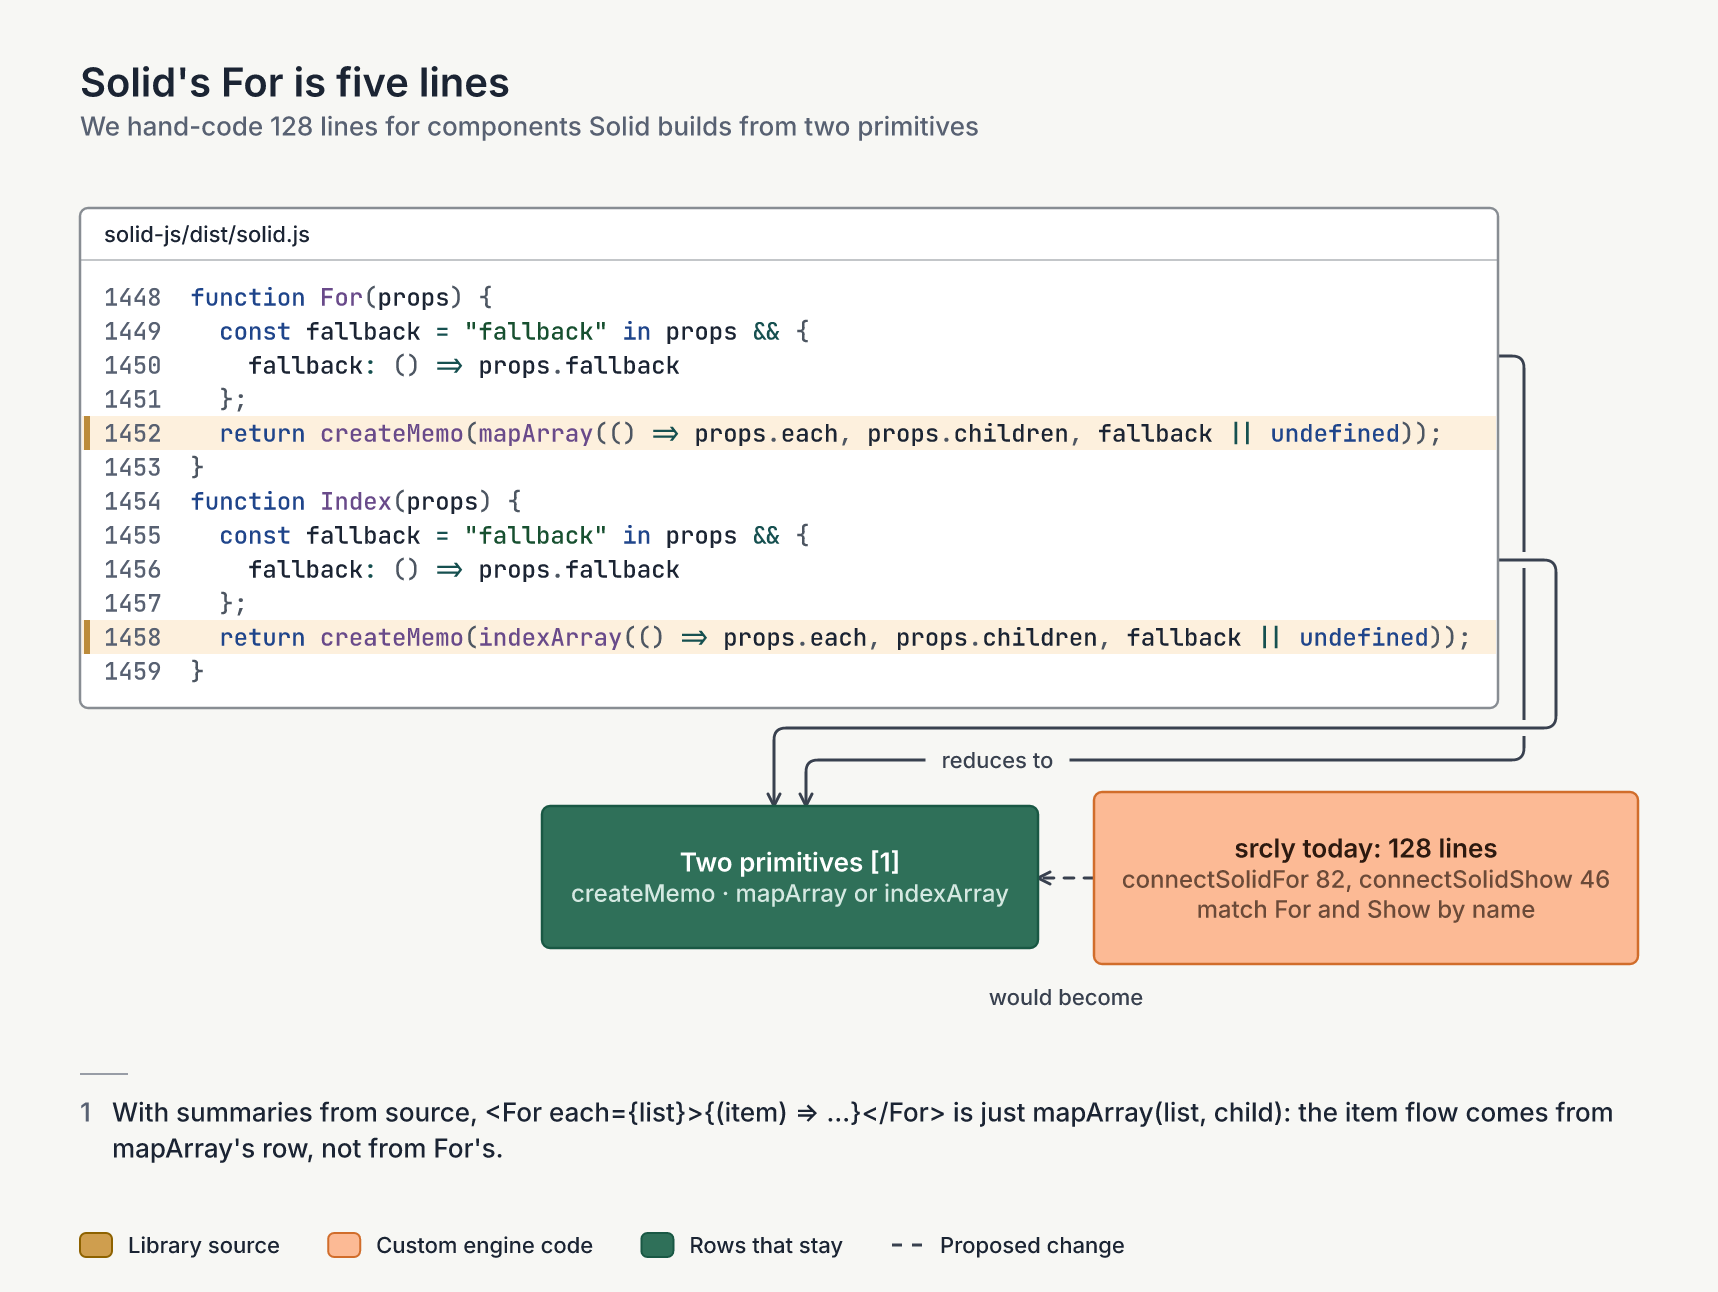
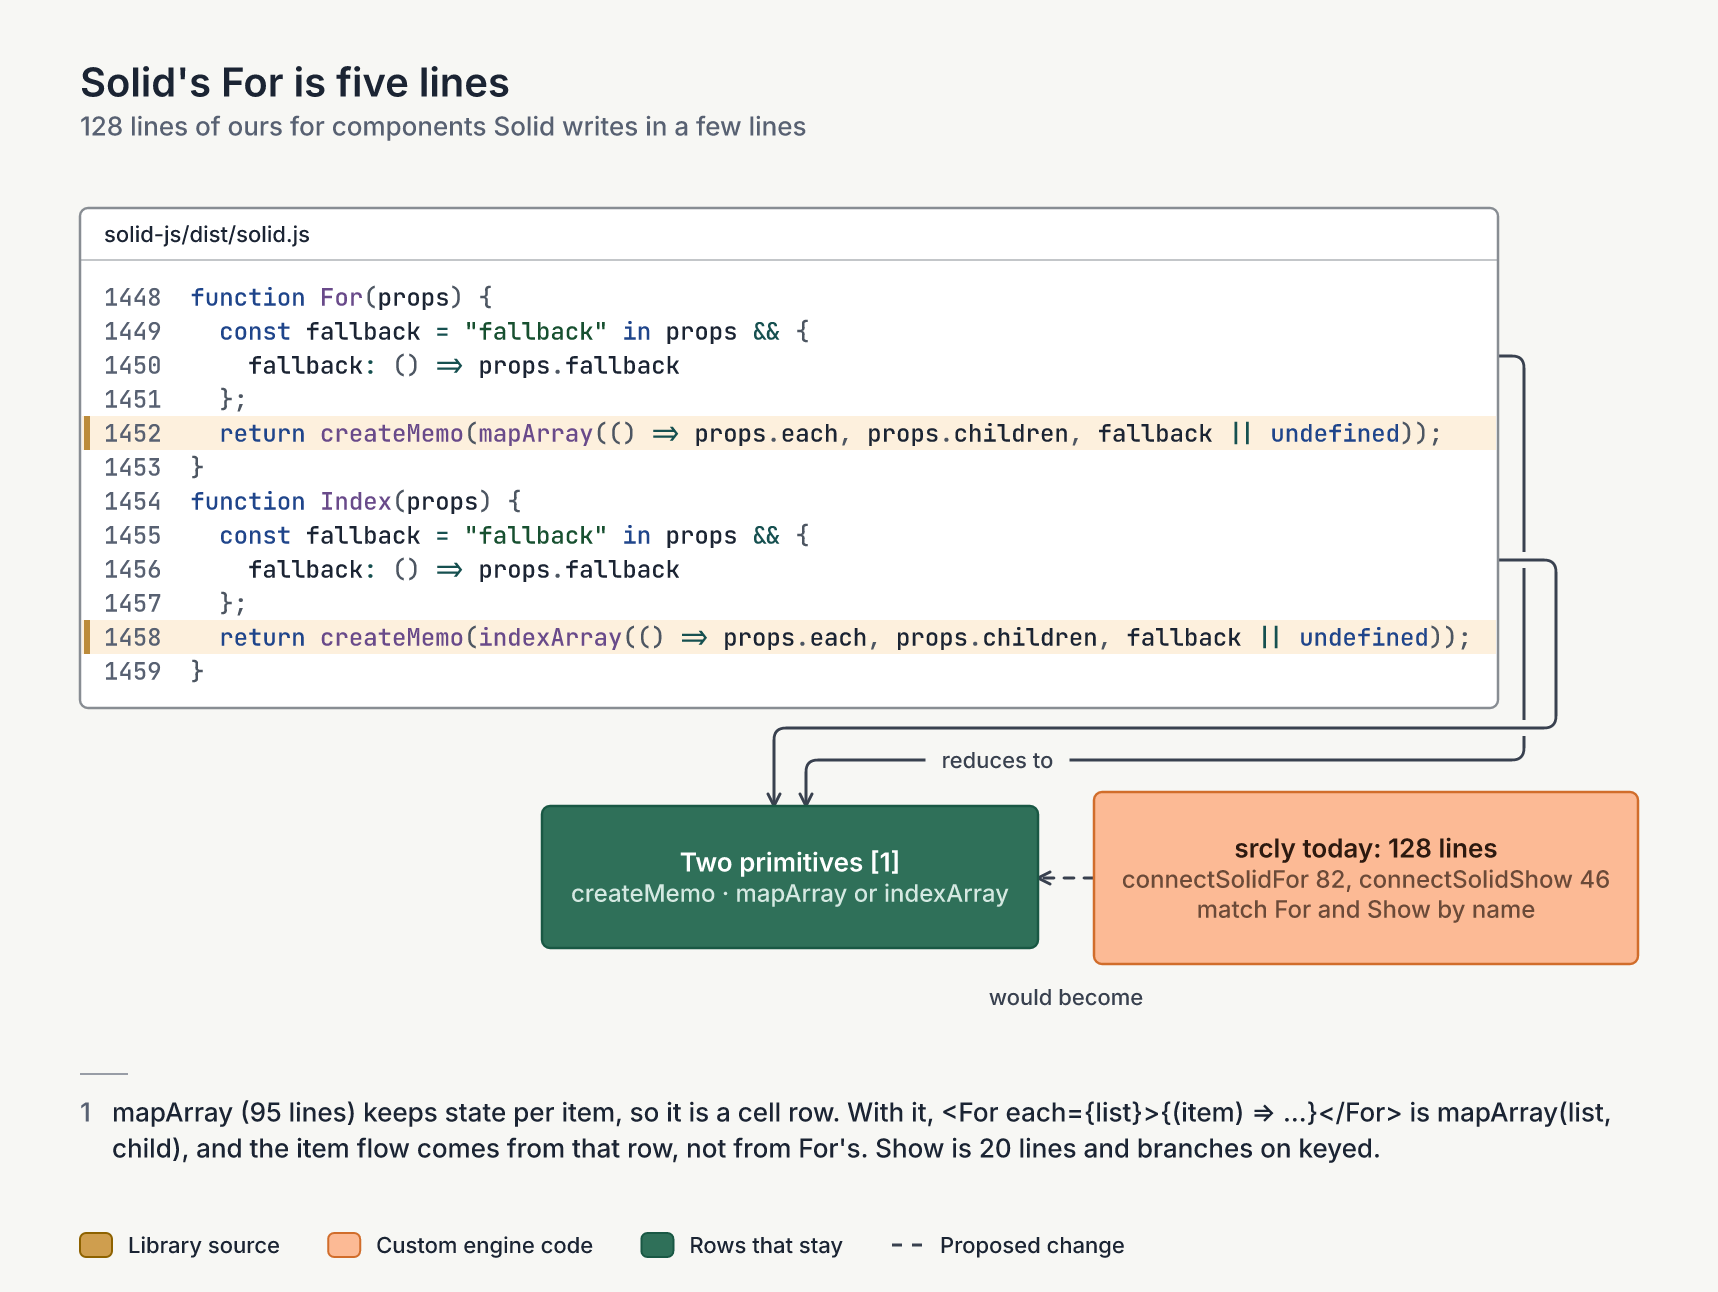
docs(research): record the independent review and revise the plan
Rows stay the only interface; dependency source becomes an offline row
generator, decided by an inline test. The divider for a hand row is
per-call state. Fix the intake numbers and three diagrams.

Changed region(s): [[0.0617, 0.8359, 0.9563, 0.8978], [0.0308, 0.0929, 0.5553, 0.1238]]

diff --git a/docs/research/dataflow-library-models-2026-11/README.md b/docs/research/dataflow-library-models-2026-11/README.md
@@ -2,11 +2,36 @@
 
 Byron's question: "I am worried that extending this to cover more patterns requires adding huge amounts of custom code for every library that is supported. Can we do better?"
 
-Short answer: yes. Most library knowledge is already data (286 rows in `engine/models/*.json`). The cost does not come from the rows. It comes from the row vocabulary: each new library shape adds a new row field, a new TypeScript reader, and a new emitter. A fixed vocabulary of access paths, plus flow edges that the libraries' own `.d.ts` generics propose, would make most new library support rows-only. Two engine concepts (a state cell and a component slot) would absorb the imperative code that remains.
+Short answer: yes. Most library knowledge is already data (286 rows in `engine/models/*.json`). The cost does not come from the rows. It comes from the row vocabulary: each new library shape adds a new row field, a new TypeScript reader, and a new emitter. A fixed vocabulary of access paths, with cell and keyed-store shapes for state that exists once per call, makes new library support rows-only. Reading library source can later *generate* rows offline; it must not run inside the scan. The "Revised direction" section below records why.
 
 Read on `origin/main` at `40cd9a68` (after #417 and #418), 2026-11-22. No engine file changed. The diagrams in `diagrams/` are Draftably 0.16.0 files; each PNG carries its `.draft` source (`npx draftably@0.16.0 extract`). The spike scripts and their raw output are outside the repo, in the session notes folder `lib-model-audit/`.
 
 ![Where library knowledge lives today](diagrams/1-where-library-code-lives.png)
+
+## Revised direction after an independent review
+
+A separate review (Fable 5.2, read-only; full text in the notes folder as `lib-model-audit/review-fable.md`) re-measured this audit. The inventory holds. It rejected one part of the plan and corrected one framing. This section supersedes the recommendation in section 5 and the conclusions of sections 5b and 5c where they differ.
+
+**What the review measured:**
+
+- **Dependency JS inside the scan Program erases user types.** TypeScript reaches package JS only with `noDtsResolution`, which applies to the whole Program. On family-finances, the share of user-code identifiers typed `any` rose from 10.4% to 46.1%. The engine resolves calls through the checker, so most rules would stop, including the `QueryClient.*` member rows from #423 (`libraryMemberModel` requires a declaration file).
+- **The heap doubles.** Family-finances went from 509 MB to 1,120 MB at `maxNodeModuleJsDepth: 4`, which pulled in 2,345 files from 118 packages (TypeScript, ESLint, Next, react-dom). TypeScript has no per-package depth limit. A repo already at 2 to 3 GB cannot take this.
+- **Builds disagree.** TypeScript bound zustand's shim to React's minified production build by branch order. Solid's server build makes `createEffect` a no-op and signals plain closures. A summary from the wrong build is a confident false `ok`.
+- **Library JS is untyped,** and the engine stops by rule at an untyped receiver of unknown origin (#420). Reading zustand needs a value-based call resolver for JavaScript, not "two general abilities and one row".
+- **Nothing defined a complete summary.** A summary may be `ok` only if every call on its path has one resolved callee; there is no computed access, `Proxy`, getter, `apply` or `eval` on the path; every write to each closure variable and field is found; every build agrees or one is named as the truth; and state is kept per call.
+
+**The corrected framing.** A hand row is needed where **state exists once per call** (every `createSignal`, every zustand `create`), or where the build picks the function at run time (React's dispatcher). "The runtime decides the path" was only half of it: Solid's `createSignal` is 15 lines of plain code, but every signal shares `readSignal` and `writeSignal`, so an analysis without per-call instances joins every write to every read. A correct source summary of zustand must say exactly what a cell row says. Source reading can generate cell rows; it cannot replace them.
+
+**The revised plan:**
+
+1. **Rows are the only interface.** Do migration stages 1 to 4b: access paths, then the cell, slot and keyed-store shapes. The cell row must name extra handles (`getState`, `setState`, `subscribe`, middleware pass-through), so `engine/src/analysis/zustand-store.ts` (177 lines, added by #419) can go too.
+2. **No dependency JS in the scan Program.** The `SRCLY_DEP_SOURCE` slice is dropped.
+3. **Reading source becomes an offline row generator** (option Q in the review): `engine/scripts/summarise-package.ts <package dir>` builds a small Program on one package and prints rows with provenance `generated`, a version range and a hash of the entry file. Generated rows are checked in, reviewed as a diff, and pass the same survey gate as hand rows. Build it only if the inline test below shows the gap is small.
+4. **Types stay `assumed` hints** (stage 5). They need today's `.d.ts` Program, which is one more reason to keep it as it is.
+
+**First step, running now:** the inline test. Copy zustand 4.5.7's 88 lines in as user code, trace two stores, and count the engine's stops. Few stops, all fixed by general rules that also help typed user code, means the offline generator is worth building. More than about five new rules, any JavaScript-only rule, or any cross-store join means rows win outright. The result goes to `lib-model-audit/inline-test.md`.
+
+**Numbers that moved since the audit's base** (`40cd9a68`): 297 rows on `origin/main` (#423 added 11 React Query rows); zustand's custom code is about 226 lines (#419); `library-models.ts` is 201 lines.
 
 ## Worked examples
 
@@ -41,7 +66,7 @@ These five pictures show the scope on real code. Read them before the numbers.
 | `engine/models/python.json` | 128 | stdlib, logging, requests, httpx, sqlalchemy, sqlmodel, django, flask, starlette, pandas, rest_framework | 60 origins, 61 terminals, 7 pass-throughs |
 | `engine/models/ecmascript.json` | 48 | TypeScript `lib.*.d.ts` | 30 `calls-back` (`map`, `then`, timers), 18 `consumes` |
 | `engine/models/solid.json` | 38 | solid-js, solid-js/store, @solidjs/router, @tanstack/solid-query, @solid-primitives | 12 `calls-back`, 10 `wraps`, 5 query options, 5 pass-throughs, 2 state pairs, 2 terminals |
-| `engine/models/node.json` | 35 | node:fs, http, https, globals | 18 origins, 17 terminals |
+| `engine/models/node.json` | 35 | node:fs, http, https, globals | 19 origins, 16 terminals |
 | `engine/models/web.json` | 17 | DOM lib, globals | 14 `consumes`, 2 origins, 1 terminal |
 | `engine/models/react.json` | 14 | react, @tanstack/react-query, zustand | 4 query options, 3 `wraps`, 3 `calls-back`, 2 state pairs, 1 store, 1 pass-through |
 | `engine/models/utilities.json` | 6 | lodash, lodash-es, lodash.debounce, lodash.throttle | 6 `wraps` |
@@ -211,14 +236,16 @@ Scores: coverage is patterns that work with no new row; risk is the chance of a 
 
 ### Recommendation
 
-Do A, B, F and H, and use E and J to write rows. Skip C and I: C analyses too much, and I needs running code. G (summaries down to a primitive floor) is the strongest later step; section 5c shows which modelled libraries it would cover.
+*Superseded in part by "Revised direction" at the top: G moves out of the scan and becomes an offline row generator.*
+
+Do A, B, F and H, and use E and J to write rows. Skip C and I: C analyses too much, and I needs running code.
 
 - **A** stops vocabulary growth. Every new library step that fits shapes 1 to 7 becomes data.
 - **B** makes unmodelled libraries trace along the right path, so a trace reaches its real end with an honest `assumed`. A 1-line confirmation row then promotes a proposal to `ok`. Types propose; rows confirm.
 - **F** turns the cell and slot emitters into two general ones.
 - **H** turns context, and the cache patterns of query libraries, into one keyed-store rule.
 
-After these four, a new library costs rows only, unless it adds a genuinely new shape. The Python FastAPI binding stays code, because it is a rule about program structure, not a library member. G is worth one spike on zustand later, to see whether its summary matches the cell row.
+After these four, a new library costs rows only, unless it adds a genuinely new shape. The Python FastAPI binding stays code, because it is a rule about program structure, not a library member. The inline test decides whether an offline row generator is worth building.
 
 ## 5b. Other engines, and analysing dependency source
 
@@ -253,33 +280,35 @@ React and Solid themselves are different. `useState` in `react.development.js` c
 
 This changes option C's score. Analysing *all* of `node_modules` is still too costly, but **summarising userland libraries down to a short list of framework primitives** is source-only, needs no rows for zustand-like libraries, and matches what Pysa and CodeQL do. A summary computed from source is a proof, so it can be `ok` where the analysis is complete, and `assumed` where it meets dynamic code.
 
-Suggested spike: summarise `zustand` from `node_modules` source down to a `useSyncExternalStore` row, and compare the edges with today's `connectStores` on the `zustand-store.tsx` fixture. It needs the closure-variable rule first.
+**Measured limits (from the review).** Doing this inside the scan Program fails: `noDtsResolution` erases user types (10.4% to 46.1% of identifiers typed `any` on family-finances), the heap doubles, and TypeScript picks a build by accident. The idea survives only as an offline generator of rows, decided by the inline test (see "Revised direction").
 
 ## 5c. Library intake applied to what we model today
 
-The intake question: can a source analysis follow the value through this library's code, or does the path run through a runtime? A *primitive* is the second kind. Its code exists, but which function runs is chosen at run time (React's dispatcher), the write waits in a queue for a scheduler, or the value leaves the program (I/O). Only primitives need hand rows.
+The intake question: does this library hold state that exists once per call, or does a runtime pick the function? Then it needs a hand row (a cell, a keyed store, or a boundary). Otherwise it is plain code over such rows, and a row generator could describe it. *Corrected after review:* an earlier draft said "the path runs through a runtime"; the real divider is per-call state.
 
-![What "primitive" means here](diagrams/13-what-primitive-means.png) I read the installed source of each modelled library (`solid-js` 1.x in bible-daily, `@tanstack/react-query` 4.44 and `zustand` in family-finances, `lodash` in recipes-modern).
+![What "primitive" means here](diagrams/13-what-primitive-means.png)
+
+I read the installed source of each modelled library (`solid-js` 1.x in bible-daily, `@tanstack/react-query` 4.44 and `zustand` in family-finances, `lodash` in recipes-modern).
 
 ![What each modelled library is made of](diagrams/10-library-layers.png)
 
 | Library | What its source is | Rows today | Custom code today | Verdict |
 | --- | --- | ---: | ---: | --- |
 | React hooks, `memo`, `forwardRef` | Calls into `dispatcher`, which the renderer sets at run time | 9 | state pairs 33 | Primitive: keep rows |
-| Solid `createSignal`, `createMemo`, effects, `createStore`, `splitProps`, `mergeProps` | The reactive core: a scheduler and `Proxy` objects | 14 | | Primitive: keep rows |
+| Solid `createSignal`, `createMemo`, effects, `createStore`, `splitProps`, `mergeProps` | `createSignal` is 15 lines: one object per call, read and written through shared `readSignal` and `writeSignal`. Stores use `Proxy`. `splitProps`, `mergeProps`, `untrack` and `batch` are plain code | 14 | | Per-call state: cell rows |
 | Context (React and Solid) | Solid: `Owner.context[context.id] ?? context.defaultValue`. React: the dispatcher | 0 | 107 | Primitive: one keyed-store row |
 | I/O (fetch, fs, DB, print, Python boundaries) | Ends in native code or the network | 161 | | Primitive: keep rows |
-| Solid `For`, `Index`, `Show`, `children` | 5 to 15 lines each on `createMemo` and `mapArray` | 1 | 128 | Built on primitives |
-| Solid `createSelector`, `on`, `mapArray`, `createDeferred`, `onMount` | Plain JS on the reactive core | 5 | | Built on primitives |
-| Router `createAsync`, `query`, `cache`, `action` | `createAsync` is `createResource(() => fn())`; `query` keeps a module `Map` keyed by name and arguments | 8 | resource 140 (shared with Solid) | Built on primitives; the `Map` is a keyed store with a computed key |
-| zustand | 80 lines: a closure `let state` and `useSyncExternalStoreWithSelector` | 1 | 70 | Built on primitives |
+| Solid `For`, `Index`, `Show`, `children` | `For` and `Index` are 5 lines on `createMemo` and `mapArray` (95 lines, with per-item state). `Show` is 20 lines and branches on `keyed` | 1 | 128 | Plain code over cells |
+| Solid `createSelector`, `on`, `mapArray`, `createDeferred`, `onMount` | `on` and `onMount` are plain code; `mapArray` and `createSelector` keep per-call state | 5 | | Mixed |
+| Router `createAsync`, `query`, `cache`, `action` | `createAsync` is `createResource(() => fn())`; `query` keeps a module `Map` keyed by name and arguments | 8 | resource 140 (models Solid's `createResource`, a cell) | Plain code over cells; the `Map` is a keyed store with a computed key |
+| zustand | 88 lines (4.5.7): one closure `let state` per `create` call, and `useSyncExternalStoreWithSelector` | 1 | 70 at the audit's base; about 226 after #419 | Per-call state: a cell row (a generator could write it) |
 | React Query, Solid Query | About 1,800 lines of classes in `query-core`: an observer on `useSyncExternalStore`, a cache `Map` keyed by a hash of the query key, a `Promise` retryer | 9 | options 85 | Built on primitives, but deep; the hashed key stays `assumed` |
 | lodash, `@solid-primitives` | Closures on `setTimeout`; storage on `localStorage` | 11 | | Built on primitives |
 
 What this shows:
 
-- **23 of 58 framework rows are at the right layer.** They describe primitives: the flow runs through a runtime, so no source analysis can follow it.
-- **35 of 58 rows, and about 420 of the 650 hard lines, describe code we could read.** Solid's own components are the plainest case:
+- **The 23 core rows are at the right layer.** They describe per-call state or a runtime-chosen function.
+- **About 200 of the 650 hard lines describe plain code over those rows:** Solid's `For` and `Show` (128) and zustand's emitter (70 at base). An earlier draft said 420; the 140 resource lines model `createResource`, which is itself a cell, and React Query (85) is too deep to count. Solid's components are the plainest case:
 
 ![Solid's For is five lines](diagrams/11-solid-for-is-five-lines.png)
 
@@ -306,9 +335,13 @@ Each stage is one PR. Each must keep `engine/test/srcly/fixture-annotations.test
 
 ![Migration to rows-only library support](diagrams/4-migration.png)
 
-**First step:** stage 1. It changes no behaviour, it is small, and its equivalence test pins every row before stage 2 rewrites the readers. Hold it until tonight's zustand, React Query and Solid workers merge, because they edit the same readers.
+**Revised after review:** the cell row in stage 3 names `getState`, `setState`, `subscribe` and middleware pass-through, so `zustand-store.ts` goes too. If the inline test passes, add an offline row generator after stage 4b; its rows pass the same survey gate as hand rows.
+
+**First step:** the inline test (running now), then stage 1. Stage 1 changes no behaviour, and its equivalence test pins every row before stage 2 rewrites the readers. Hold it until tonight's workers merge, because they edit the same readers.
 
 ## 7. Open questions
+
+- Which build is the truth for a row generator (browser or server, development or production)? The review found Solid's builds disagree on `createEffect`. The generator must name one and report a conflict when builds differ.
 
 - Should a type proposal (stage 5) show in the UI as its own kind of `assumed` step ("follows the types")? It gives a better path than an opaque library step, but the outcome stays `assumed`. This study assumes yes; it needs no product decision before stage 1.
 - The legacy route report (about 16,000 SolidStart-specific lines) is outside this study. If it is retired, the library-specific line count roughly halves.
